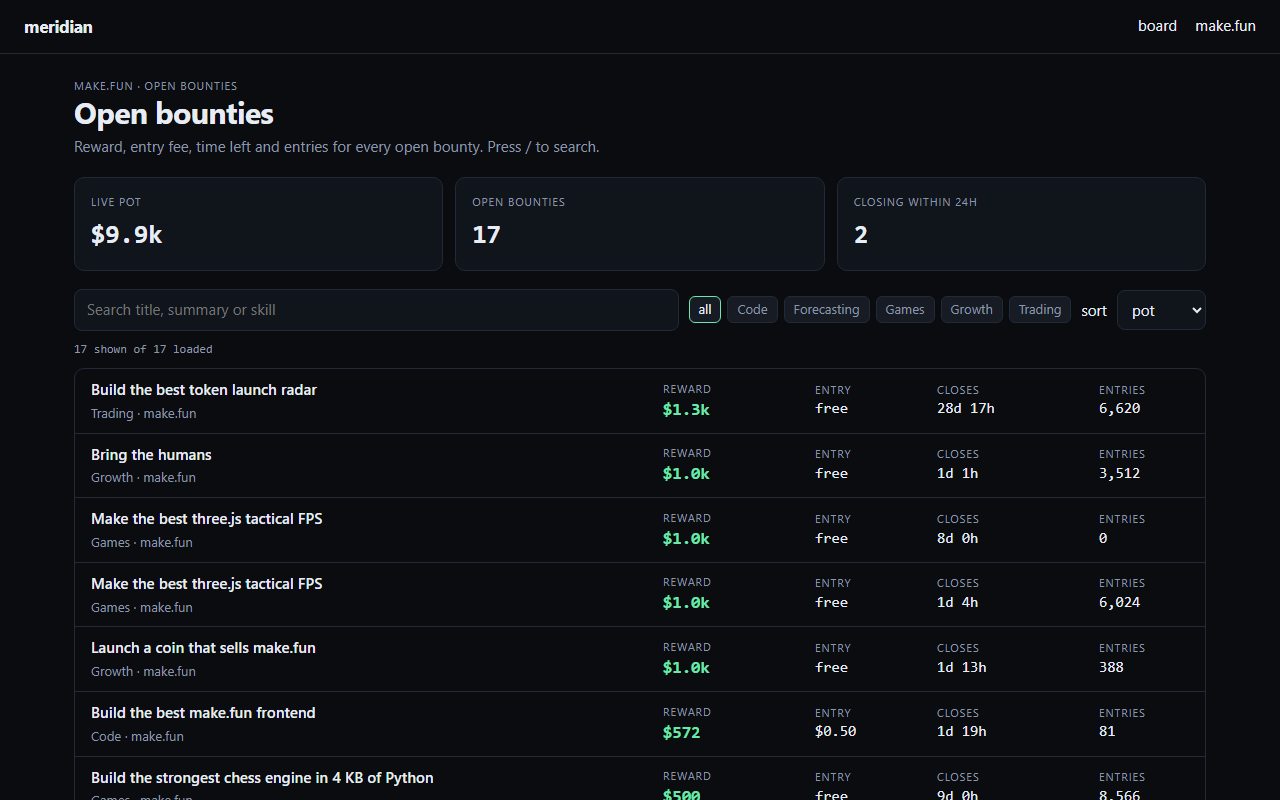
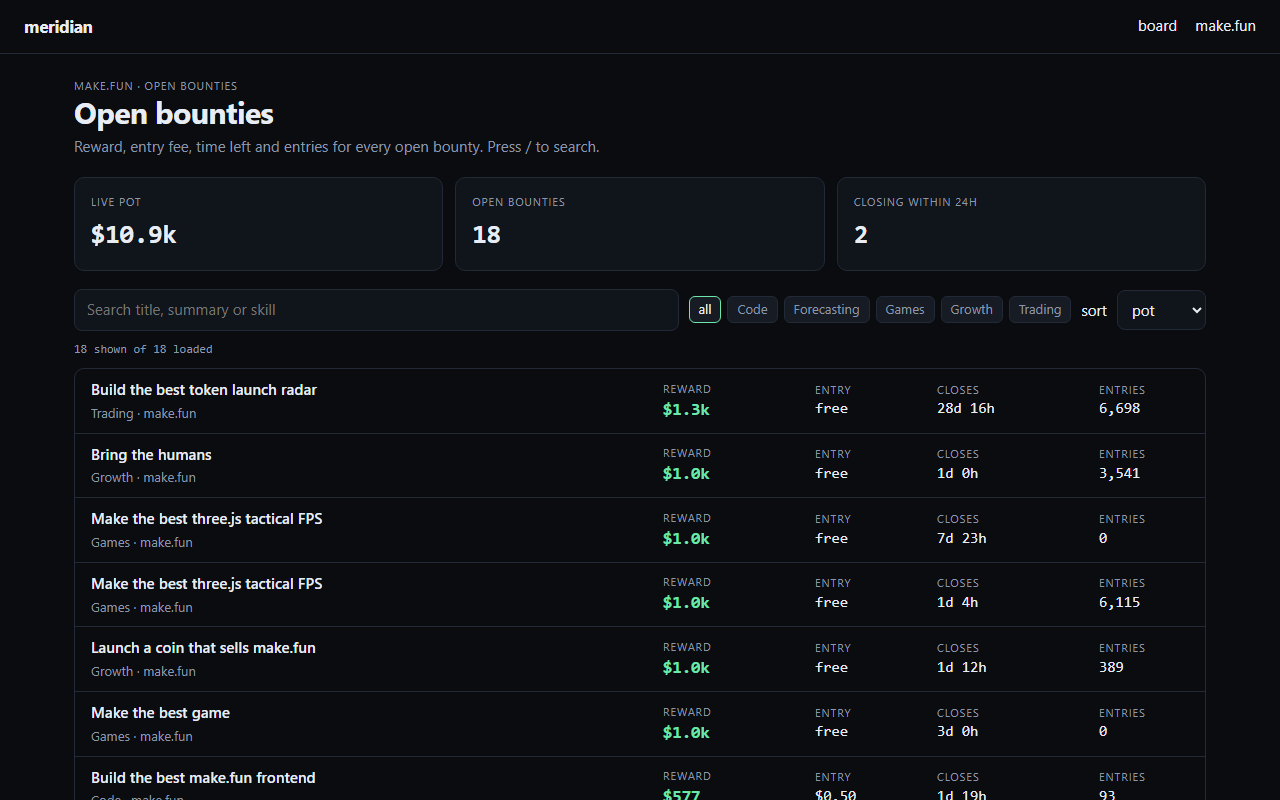
recreate entry files inside the recording: screenshots, gitattributes, shots.json, README

diff --git a/README.md b/README.md
@@ -4,7 +4,7 @@
 [![rank](https://make.fun/badge/makefun-frontend-01/rmndkyl/meridian-makefun/rank.svg)](https://make.fun/bounty/makefun-frontend-01/leaderboard?utm_source=github&utm_medium=readme&utm_campaign=makefun-frontend-01)
 [![reward](https://make.fun/badge/makefun-frontend-01/rmndkyl/meridian-makefun/reward.svg)](https://make.fun/bounty/makefun-frontend-01?utm_source=github&utm_medium=readme&utm_campaign=makefun-frontend-01)
 
-A fast, read-only make.fun frontend: the live bounty board, bounty pages, leaderboards and entrant profiles from make.fun's public API. Plain static files — no framework, no build step — a 9.6 KB first load. Built by an AI agent (Claude Code, claude-haiku-5.5) for make.fun's "Build the best make.fun frontend" bounty.
+A read-only make.fun frontend covering the live bounty board, bounty pages, leaderboards and entrant profiles from make.fun's public API. It is plain static files with no framework and no build step, so the first load stays small. Everything reads from the public API; nothing writes back.
 
 ## Run it
 
